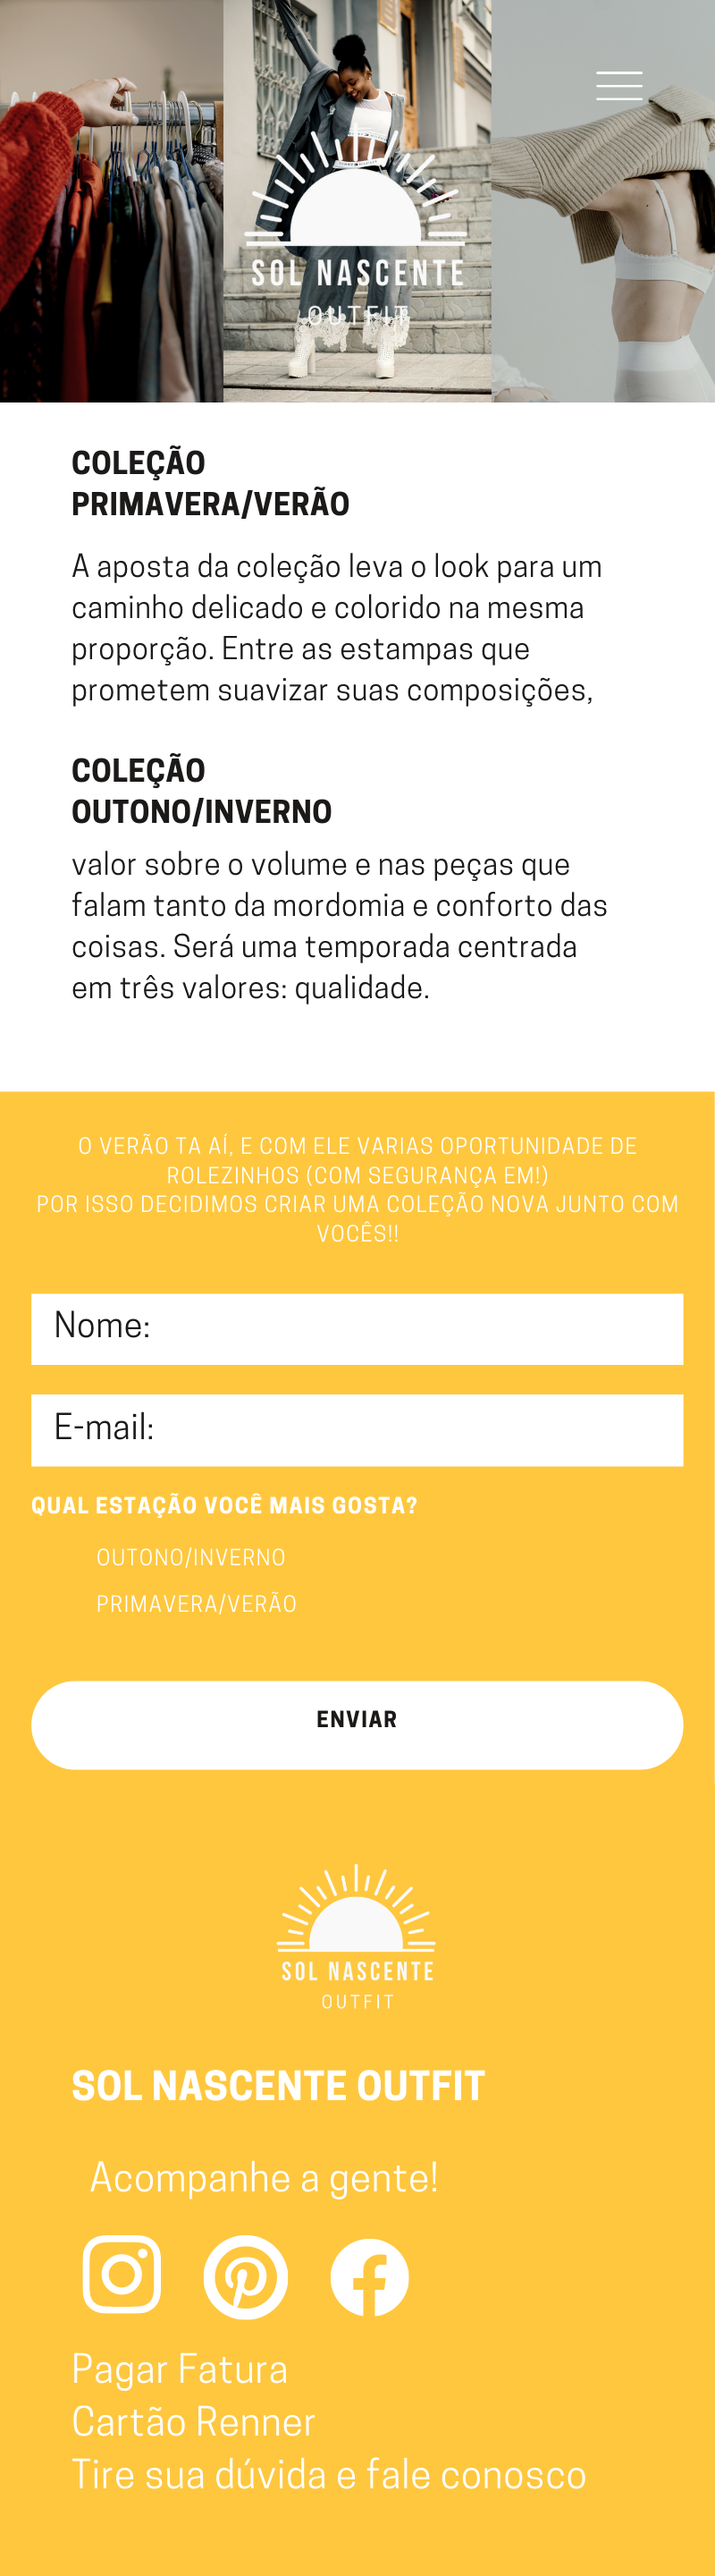
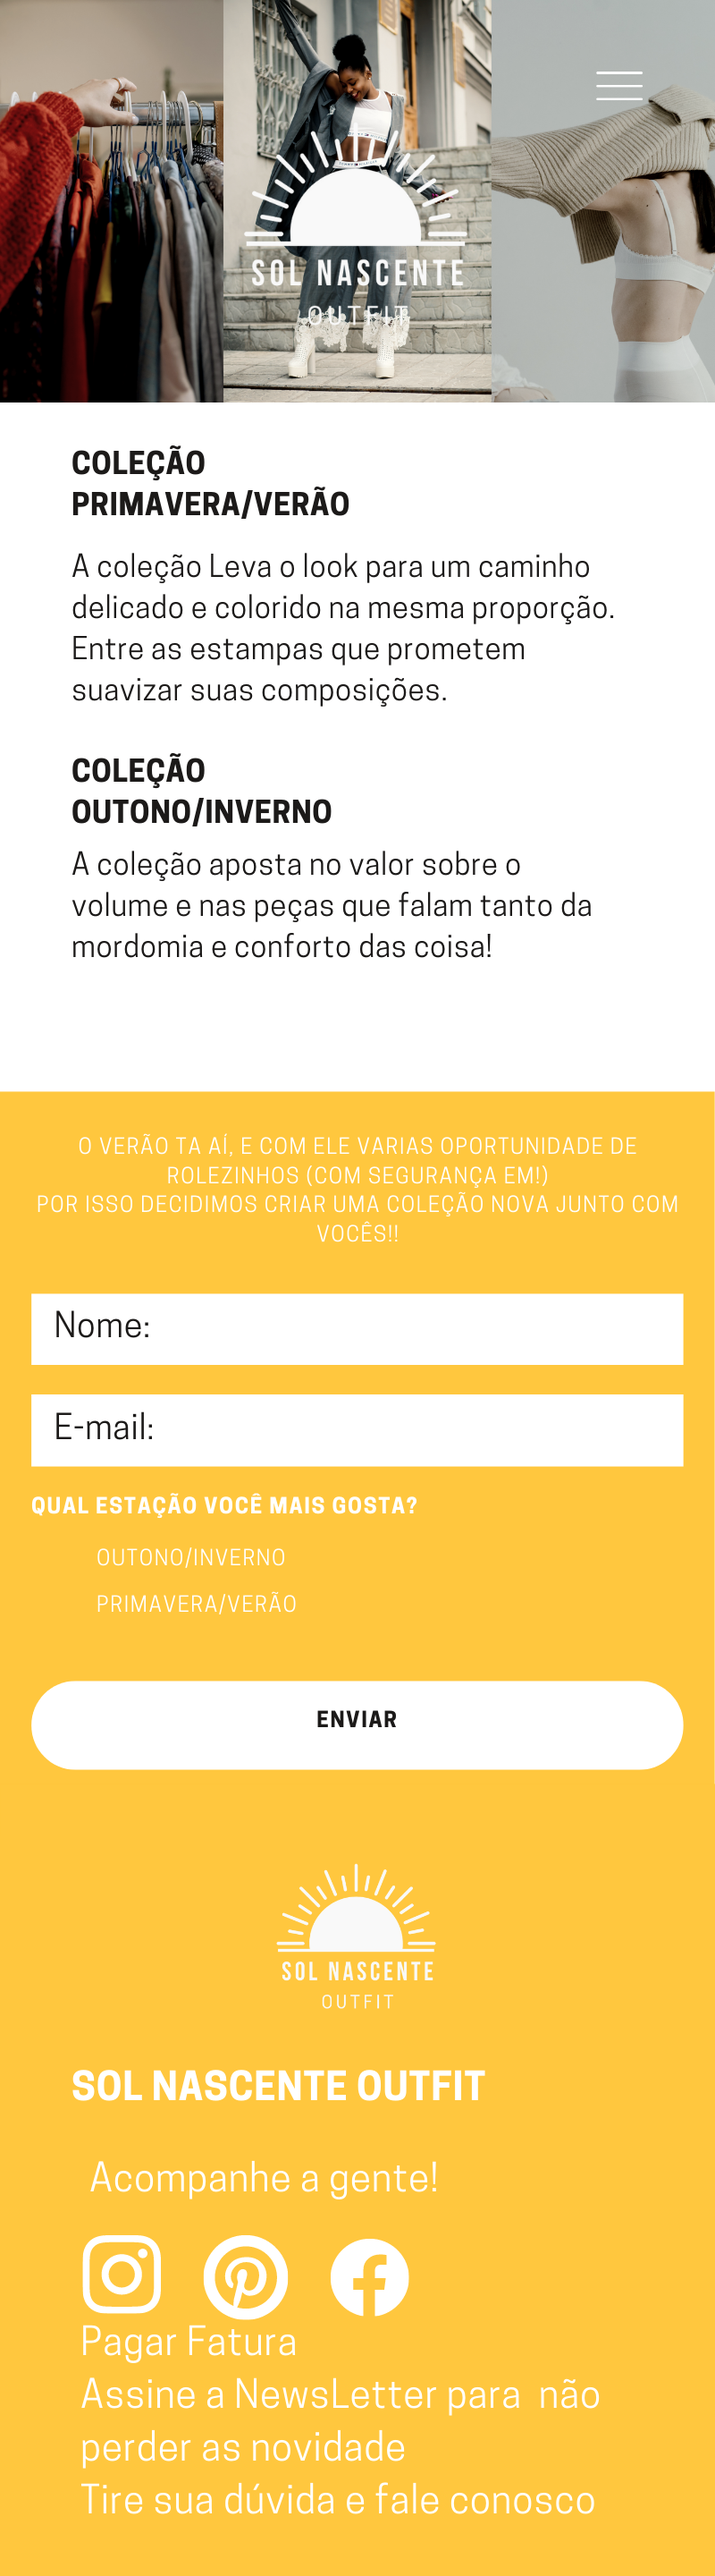
footer

diff --git a/index.htm b/index.htm
@@ -56,31 +56,29 @@
 </main>
 
 
-<footer class="rodape">
-
-	<span class="rodape_agradecimento">Obrigada por nos ajudar a melhorar sempre!</span>
-
-	<ul class="rodape_redessociais">
-
-		<li>
-			<figure class="rodape_redessociaisicone">
-				<img src="./img/shopee.png" alt="Conheça nossa loja na Shopee" height="20px">
-			</figure>
-		</li>
-
-		<li>
-			<figure class="rodape_redessociaisicone">
-				<img src="./img/instagram.png" alt="Siga-nos no Instagram" height="20px">
-			</figure>
-		</li>
-
-		<li>
-			<figure class="rodape_redessociaisicone">
-				<img src="./img/whatsapp.png" alt="Entre em contato com a gente" height="20px">
-			</figure>
-		</li>
-
-	</ul>
+<footer class="rodape container">
+	<div class="row">
+		<div class="col">
+			<h2>Sol nascente outfit</h2>
+		</div>
+		<div class="col">
+			<p>Acompanhe a gente!</p>
+			<ul>
+				<li></li>
+				<li></li>
+				<li></li>
+			</ul>
+		</div>
+		<div class="col">
+			<ul>
+				<li>Pagar Fatura</li>
+				<li>Assine a NewsLetter para <br>
+				não perder as novidade</li>
+				<li>Tire sua dúvida e fale conosco</li>
+			</ul>
+		</div>
+	</div>
+	
 
 </footer>
 </body>
